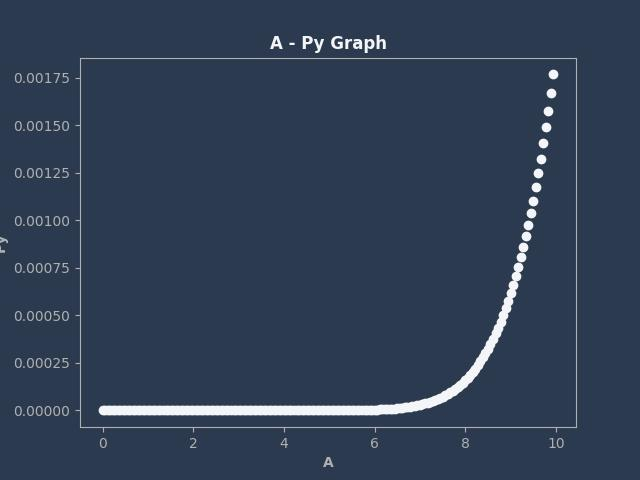
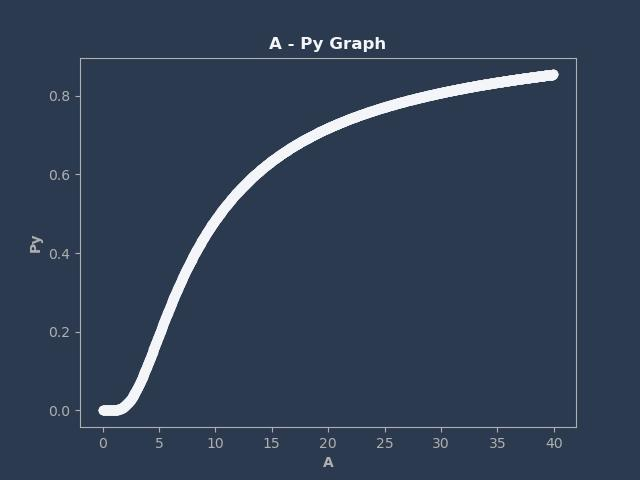
toggle di graph A_Py

diff --git a/src/graphicPage.py b/src/graphicPage.py
@@ -186,6 +186,9 @@ class GraphicPage(Screen):
         graph_A_Ws = Graphs(input, 40)
         graph_A_Ws.create_A_Ws_Graph()
 
+        graph_A_Py = Graphs(input, 40)
+        graph_A_Py.create_A_Py_Graph()
+
         self.switchGraph()
 
     
@@ -214,6 +217,11 @@ class GraphicPage(Screen):
         
         elif self.count_switch == 2:
             self.image_source.source = "img/A_Ws_Graph.jpg"
+            self.image_source.reload()
+            self.count_switch += 1
+        
+        elif self.count_switch == 3:
+            self.image_source.source = "img/A_Py_Graph.jpg"
             self.image_source.reload()
             self.count_switch = 0
 

diff --git a/src/main.py b/src/main.py
@@ -21,17 +21,4 @@ class Interface(ScreenManager):
 class QueuesystemApp(App):
     pass
 
-# QueuesystemApp().run()
-
-input = {
-    "Y": 20,
-    "arrivalRate": 8,
-    "serviceRate": 18,
-}
-
-g = Graphs(input, 10)
-
-# g.create_A_Ls_Graph()
-# g.create_A_Ws_Graph()
-# g.create_k_Pk_Graph()
-g.create_A_Py_Graph()
+QueuesystemApp().run()
